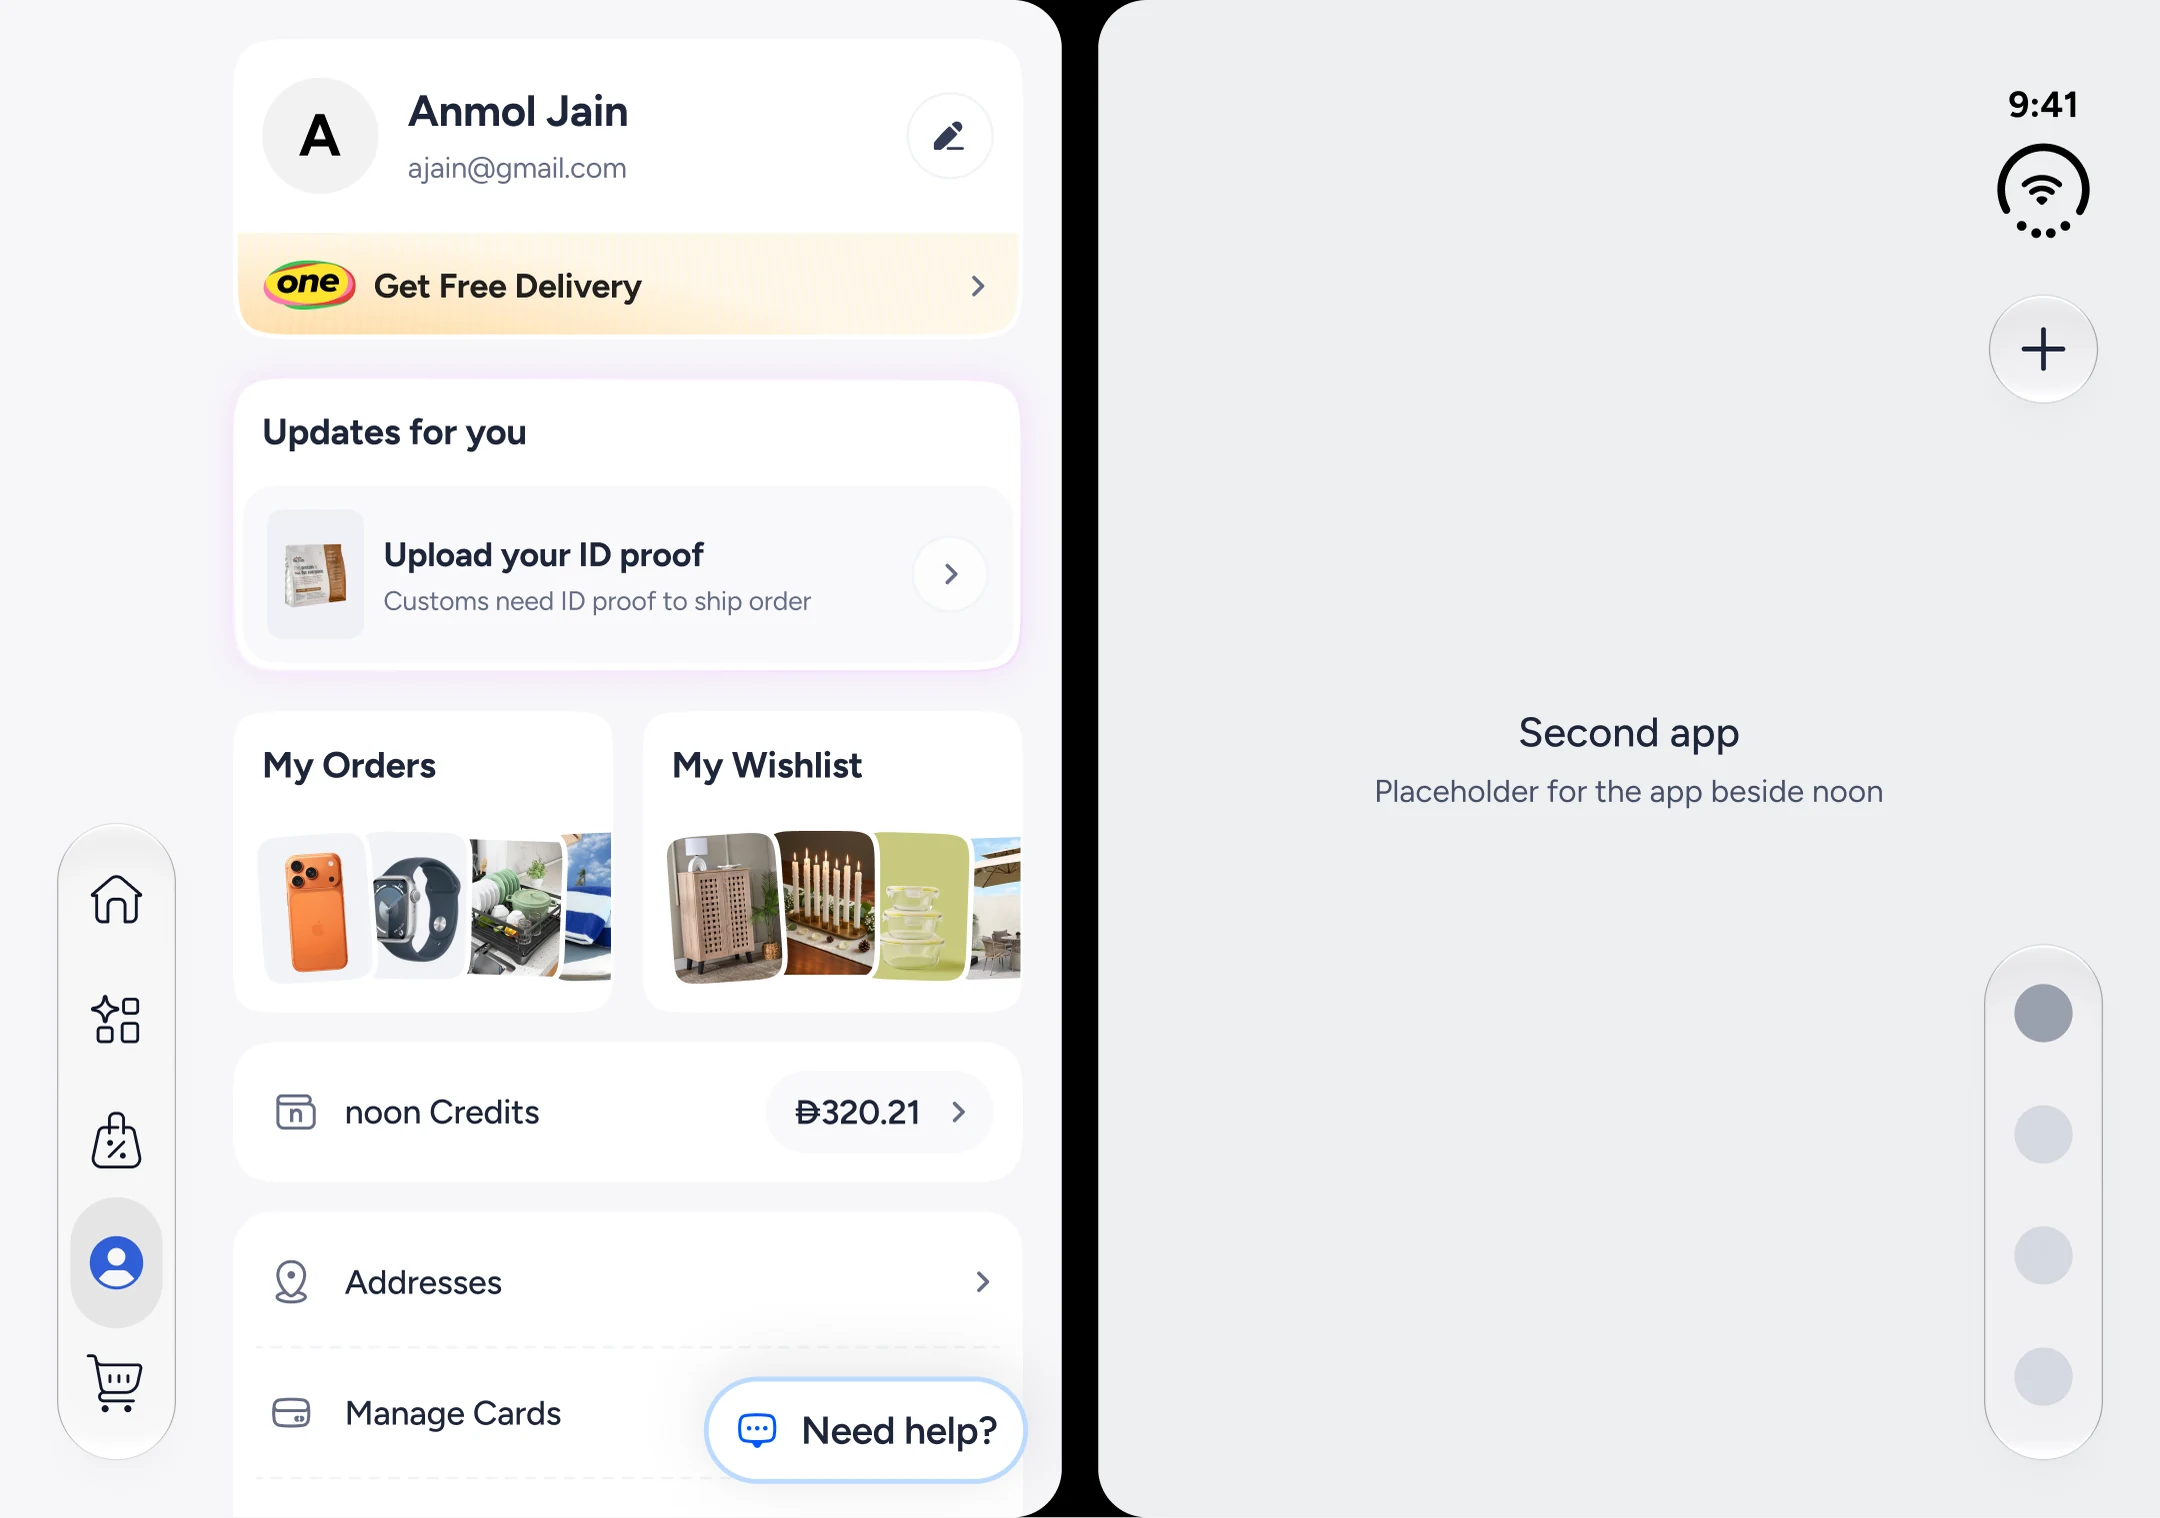
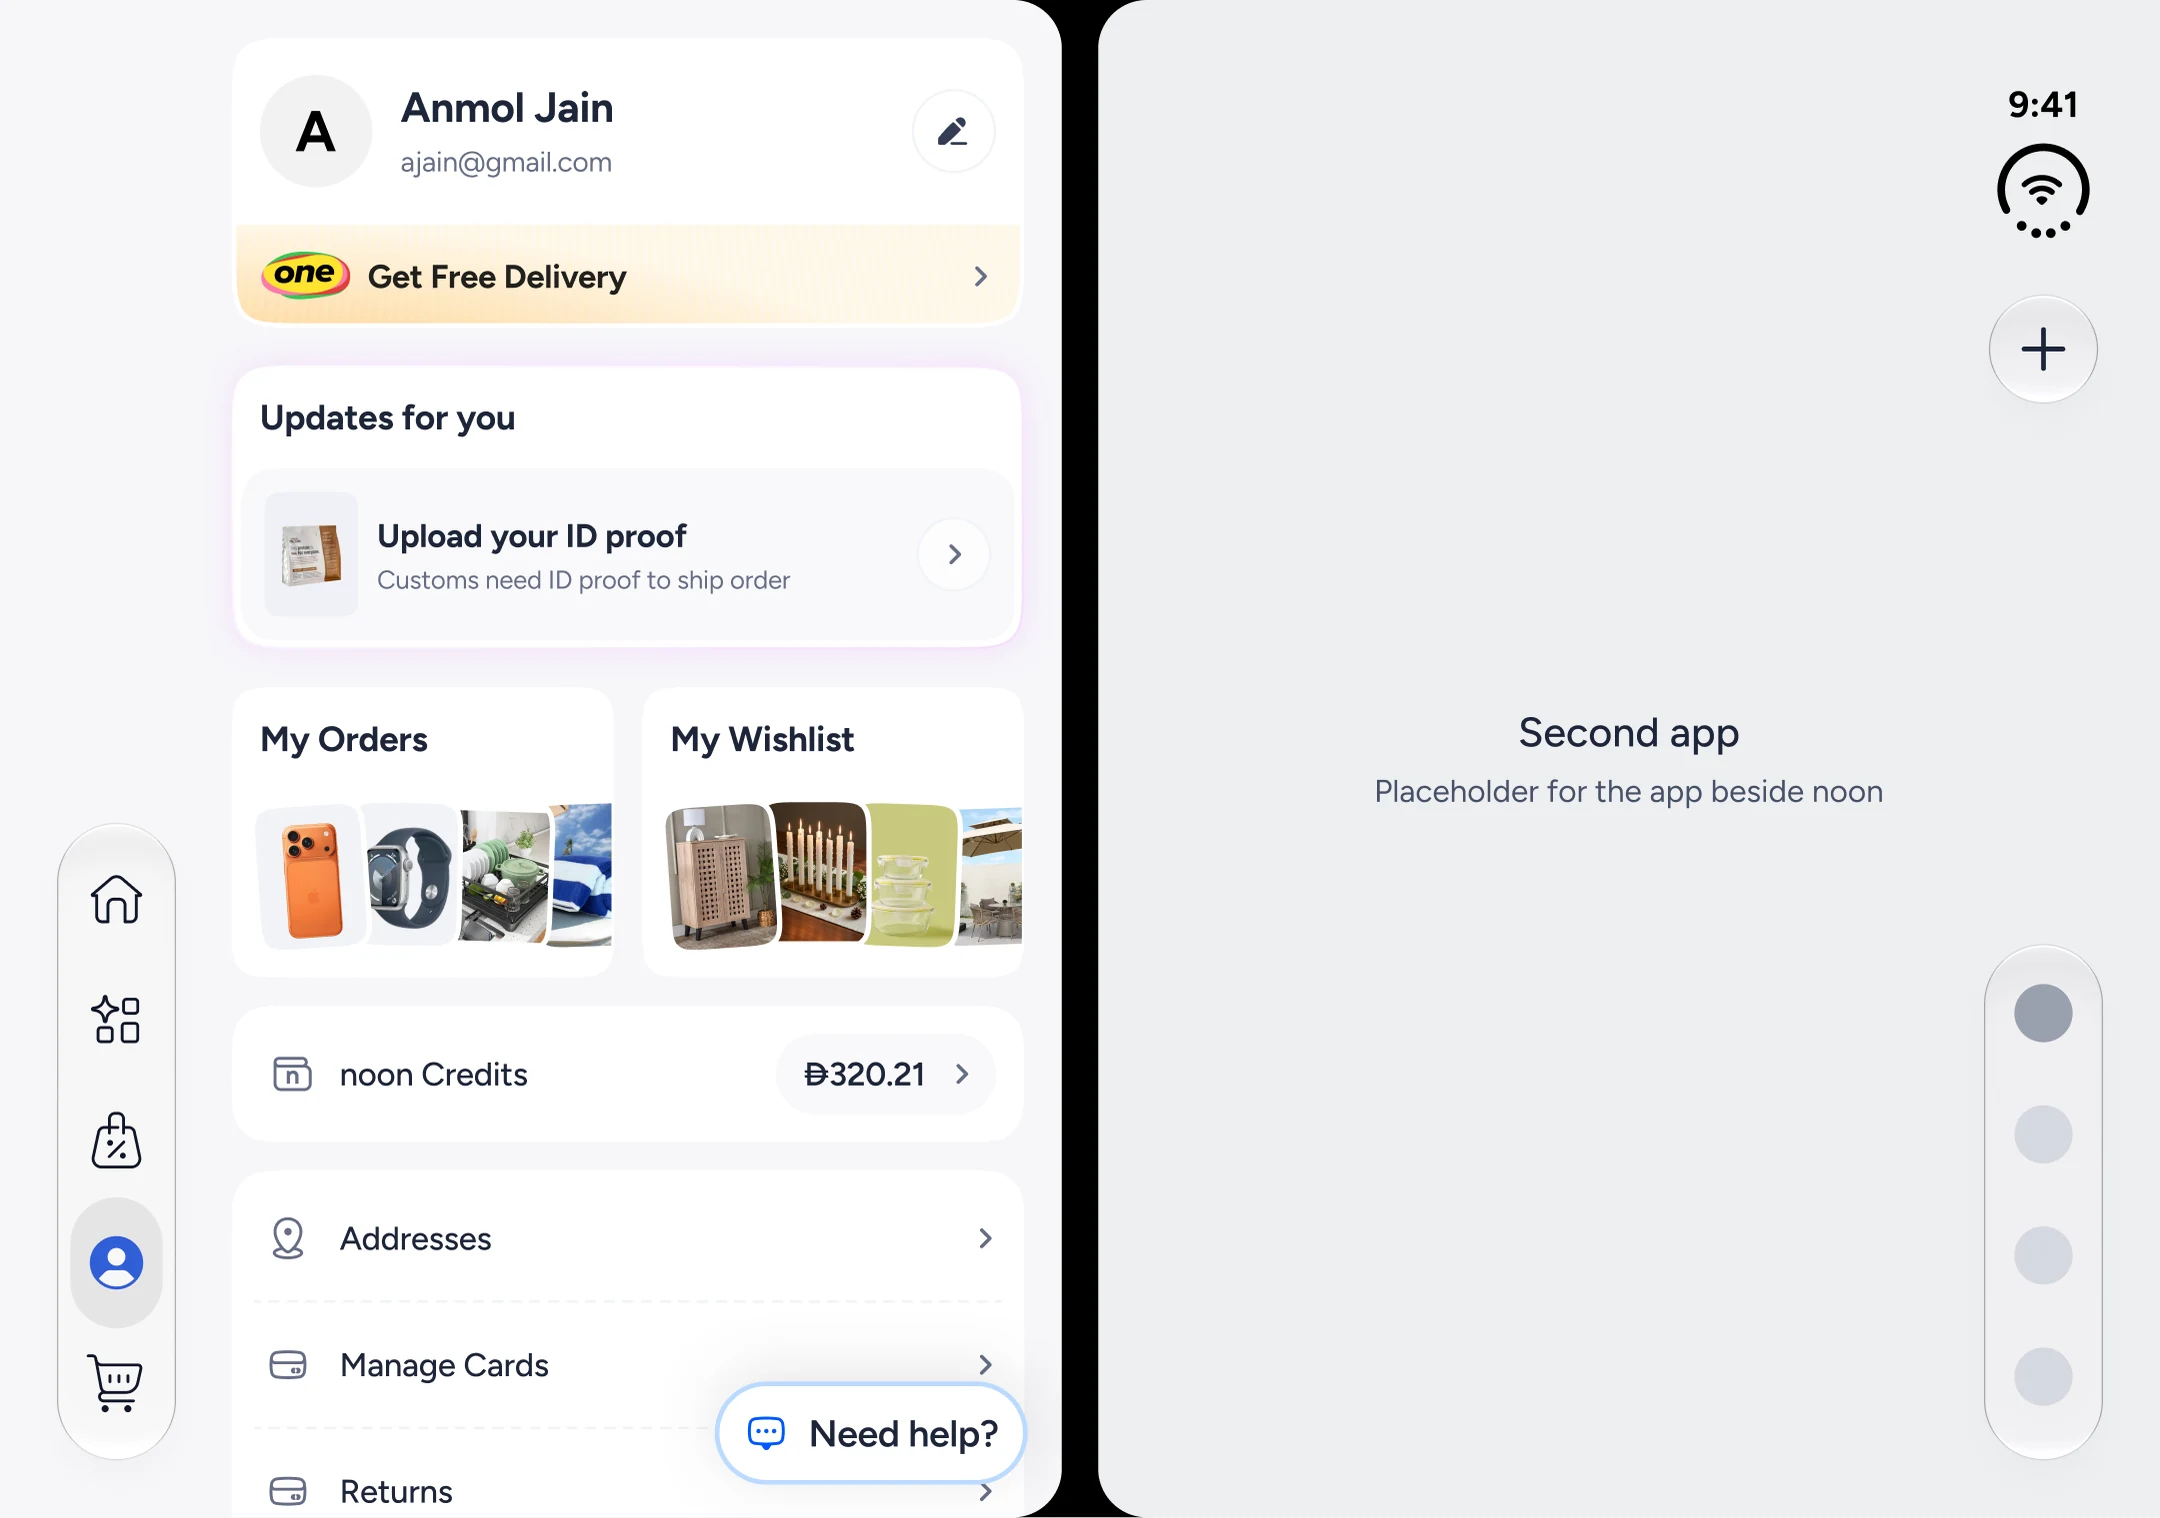
Split view: keep cover layouts intact, align rows on one edge
Stretching rows to the new width broke layouts built with negative margins
(checkout's shipment cards) and left bottom docks below the screen. Each
cover layout is now scaled intact into the space beside the controls, with
bottom bars re-anchored and run to the screen edge. Carousels no longer
slide under the controls on their own, so every row shares one left edge,
and full-width layers inside a background widen with it.

diff --git a/README.md b/README.md
@@ -54,7 +54,7 @@ PY
 
 The toggle beside the fold control has three layouts. Portrait turns the open device a quarter clockwise into portrait and swaps in the `-inner-portrait` layout at the diagonal. The turn scales with how far the device is open, so folding it shut always lands upright on the cover. The portrait layouts are the **Duo Open - Inner Screen - Portrait** column of the iPhone Duo Figma file.
 
-Split view stays in landscape and crossfades to two apps side by side, following Apple's split layout: each app keeps its controls on its outer edge, and status sits in the right app's strip. noon is the left app, built from each screen's cover design: its content runs edge to edge with the side controls floating over it. Text and buttons sit clear of the controls, while backgrounds, carousels and bottom bars run beneath them. The right app is a placeholder. These are the **Duo Open - Inner Screen - Split View** column in Figma.
+Split view stays in landscape and crossfades to two apps side by side, following Apple's split layout: each app keeps its controls on its outer edge, and status sits in the right app's strip. noon is the left app, built from each screen's cover design: its content runs edge to edge with the side controls floating over it. Each cover layout is scaled intact into the space clear of the controls (text and buttons all share one edge); backgrounds and bottom bars run beneath the controls to the screen edge. The right app is a placeholder. These are the **Duo Open - Inner Screen - Split View** column in Figma.
 
 ## Assets
 
